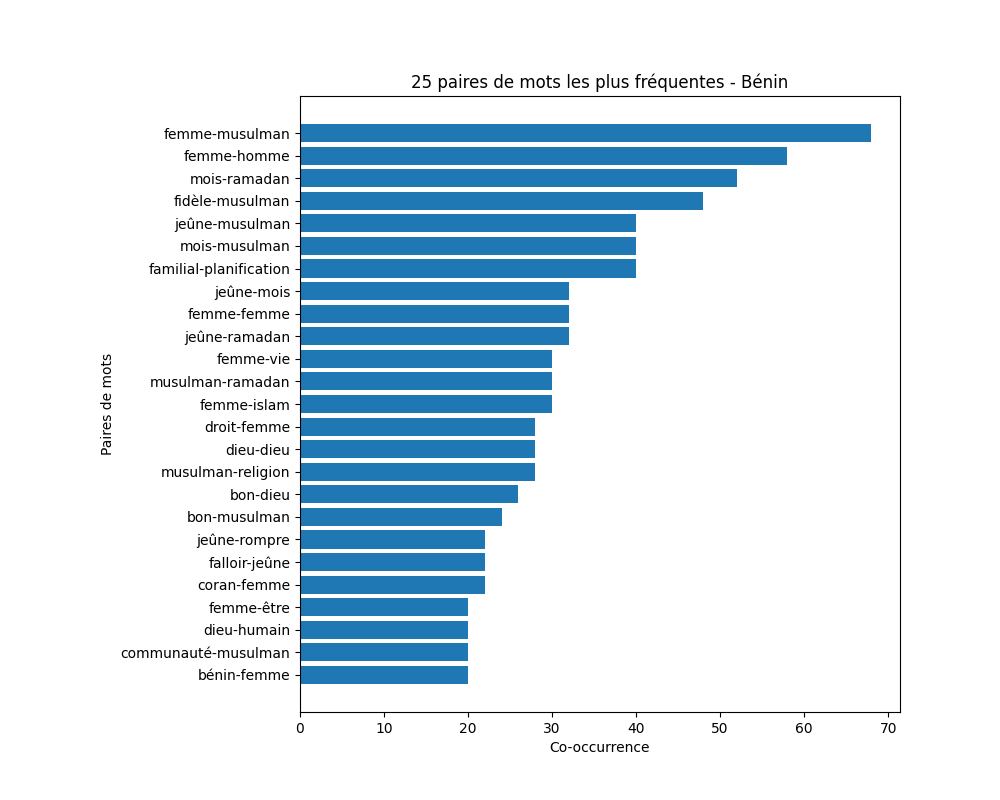
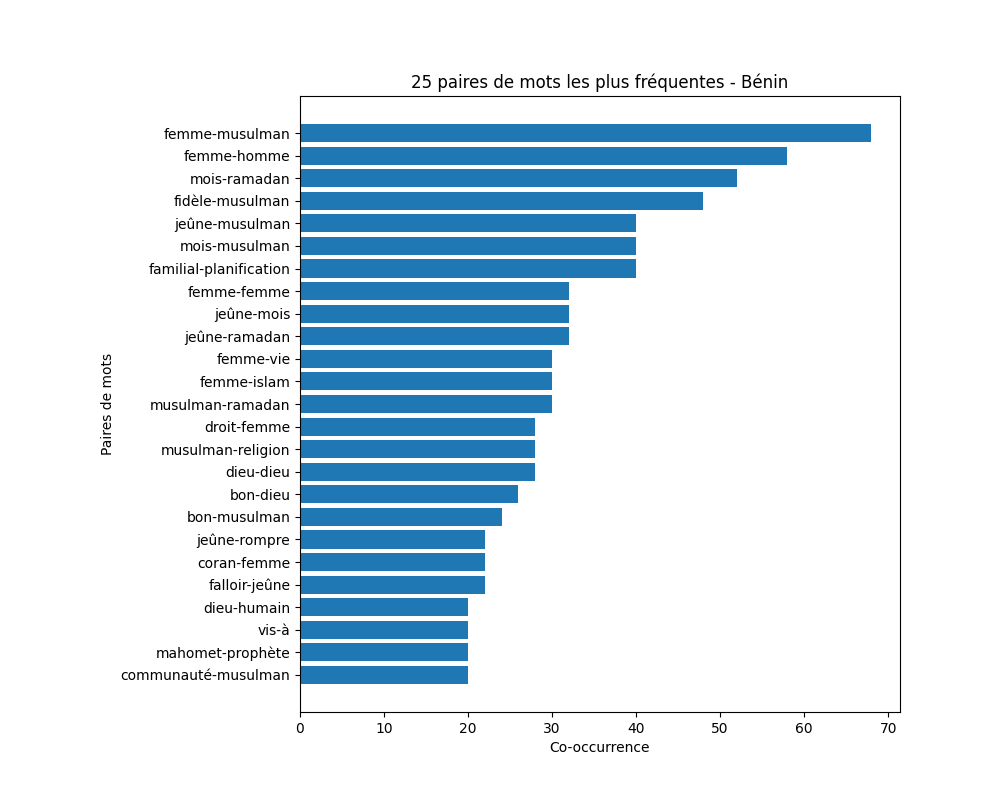
Visualisations par pays

diff --git a/5. matrice_co-occurrence.py b/5. matrice_co-occurrence.py
@@ -11,60 +11,65 @@ df = pd.read_csv(url)
 # Fonction pour nettoyer et convertir les données en listes Python
 def clean_and_convert_to_list(text):
     if isinstance(text, str):
-        words = re.findall(r'\b\w+\b', text)
-        return words
+        words = re.findall(r'\b\w+\b', text.lower())  # Convertir en minuscules pour uniformiser
+        return [word for word in words if word not in exclusion_list]  # Exclure lors de la nettoyage
     else:
-        return text
-
-# Appliquer la fonction de nettoyage à la colonne 'Processed_Content'
-df['Processed_Content'] = df['Processed_Content'].dropna().apply(clean_and_convert_to_list)
+        return []
 
 # Définir la liste des mots à exclure
-exclusion_list = ['il', 't', "aujourd", "hui", "Burkina", "El"]
-
-# Créer un dictionnaire pour compter les co-occurrences
-co_occurrence = defaultdict(int)
-
-# Définir la fenêtre pour la co-occurrence
-window_size = 5
+exclusion_list = ['il', 't', "aujourd", "hui", "Burkina", "El", "el", "burkina", "faso", "bénin"]
 
 # Calculer les co-occurrences
-for content in df['Processed_Content']:
-    for i in range(len(content)):
-        target_word = content[i]
-        if target_word in exclusion_list:  # Ignorer le mot s'il est dans la liste d'exclusion
-            continue
-        start = max(0, i - window_size)
-        end = min(len(content), i + window_size + 1)
-        for j in range(start, end):
-            if i != j:
-                co_occurred_word = content[j]
-                if co_occurred_word in exclusion_list:  # Ignorer le mot co-occurrent s'il est dans la liste d'exclusion
-                    continue
-                if target_word != co_occurred_word:
+def calculate_co_occurrences(content_list, window_size=5):
+    co_occurrence = defaultdict(int)
+    for content in content_list:
+        for i in range(len(content)):
+            target_word = content[i]
+            start = max(0, i - window_size)
+            end = min(len(content), i + window_size + 1)
+            for j in range(start, end):
+                if i != j:
+                    co_occurred_word = content[j]
                     ordered_pair = tuple(sorted((target_word, co_occurred_word)))
                     co_occurrence[ordered_pair] += 1
+    return co_occurrence
 
-# Transformer le dictionnaire de co-occurrence en DataFrame
-co_occurrence_df = pd.DataFrame(list(co_occurrence.items()), columns=['Word Pair', 'Co-occurrence'])
-co_occurrence_df['Word1'] = co_occurrence_df['Word Pair'].apply(lambda x: x[0])
-co_occurrence_df['Word2'] = co_occurrence_df['Word Pair'].apply(lambda x: x[1])
-co_occurrence_df.drop('Word Pair', axis=1, inplace=True)
 
-# Trier les paires de mots par co-occurrence
-top_co_occurrences = co_occurrence_df.sort_values(by='Co-occurrence', ascending=False).head(25)
+# Fonction pour générer et sauvegarder le graphique de co-occurrences
+def generate_co_occurrence_chart(co_occurrence, title, filename):
+    co_occurrence_df = pd.DataFrame(list(co_occurrence.items()), columns=['Word Pair', 'Co-occurrence'])
+    co_occurrence_df['Word1'] = co_occurrence_df['Word Pair'].apply(lambda x: x[0])
+    co_occurrence_df['Word2'] = co_occurrence_df['Word Pair'].apply(lambda x: x[1])
+    co_occurrence_df.drop('Word Pair', axis=1, inplace=True)
+    top_co_occurrences = co_occurrence_df.sort_values(by='Co-occurrence', ascending=False).head(25)
 
-# Créer un graphique à barres pour les co-occurrences
-plt.figure(figsize=(10, 8))
-plt.barh(top_co_occurrences['Word1'] + '-' + top_co_occurrences['Word2'], top_co_occurrences['Co-occurrence'])
-plt.xlabel('Co-occurrence')
-plt.ylabel('Paires de mots')
-plt.title('25 paires de mots les plus fréquentes')
+    plt.figure(figsize=(10, 8))
+    # Afficher les paires les plus fréquentes en haut du graphique
+    plt.barh(top_co_occurrences['Word1'] + '-' + top_co_occurrences['Word2'], top_co_occurrences['Co-occurrence'])
+    plt.xlabel('Co-occurrence')
+    plt.ylabel('Paires de mots')
+    plt.title(title)
+    plt.subplots_adjust(left=0.3)  # Ajuster selon le besoin
 
-# Ajuster l'espace autour du graphique pour s'assurer que la légende est complètement affichée
-plt.subplots_adjust(left=0.3)  # Ajustez cette valeur selon vos besoins
+    # Inverser l'axe y pour que les paires les plus fréquentes apparaissent en haut
+    plt.gca().invert_yaxis()
 
-# Sauvegarder le graphique
-plt.savefig('top_25_co_occurrences.png', format='png')
+    plt.savefig(f'{filename}.png', format='png')
+    plt.close()
 
-plt.show()
+# Pré-traitement du contenu
+df['Processed_Content'] = df['Processed_Content'].apply(clean_and_convert_to_list)
+
+# Co-occurrences pour l'ensemble du corpus
+all_content_list = df['Processed_Content'].tolist()
+all_co_occurrences = calculate_co_occurrences(all_content_list)
+generate_co_occurrence_chart(all_co_occurrences, '25 paires de mots les plus fréquentes - corpus entier', 'top_25_co_occurrences_total')
+
+# Co-occurrences par pays
+for country in df['Pays'].unique():
+    country_content_list = df[df['Pays'] == country]['Processed_Content'].tolist()
+    if country_content_list:  # Vérifier si la liste n'est pas vide
+        country_co_occurrences = calculate_co_occurrences(country_content_list)
+        generate_co_occurrence_chart(country_co_occurrences, f'25 paires de mots les plus fréquentes - {country}', f'top_25_co_occurrences_{country}')
+
+print("Les graphiques ont été générés et sauvegardés.")
